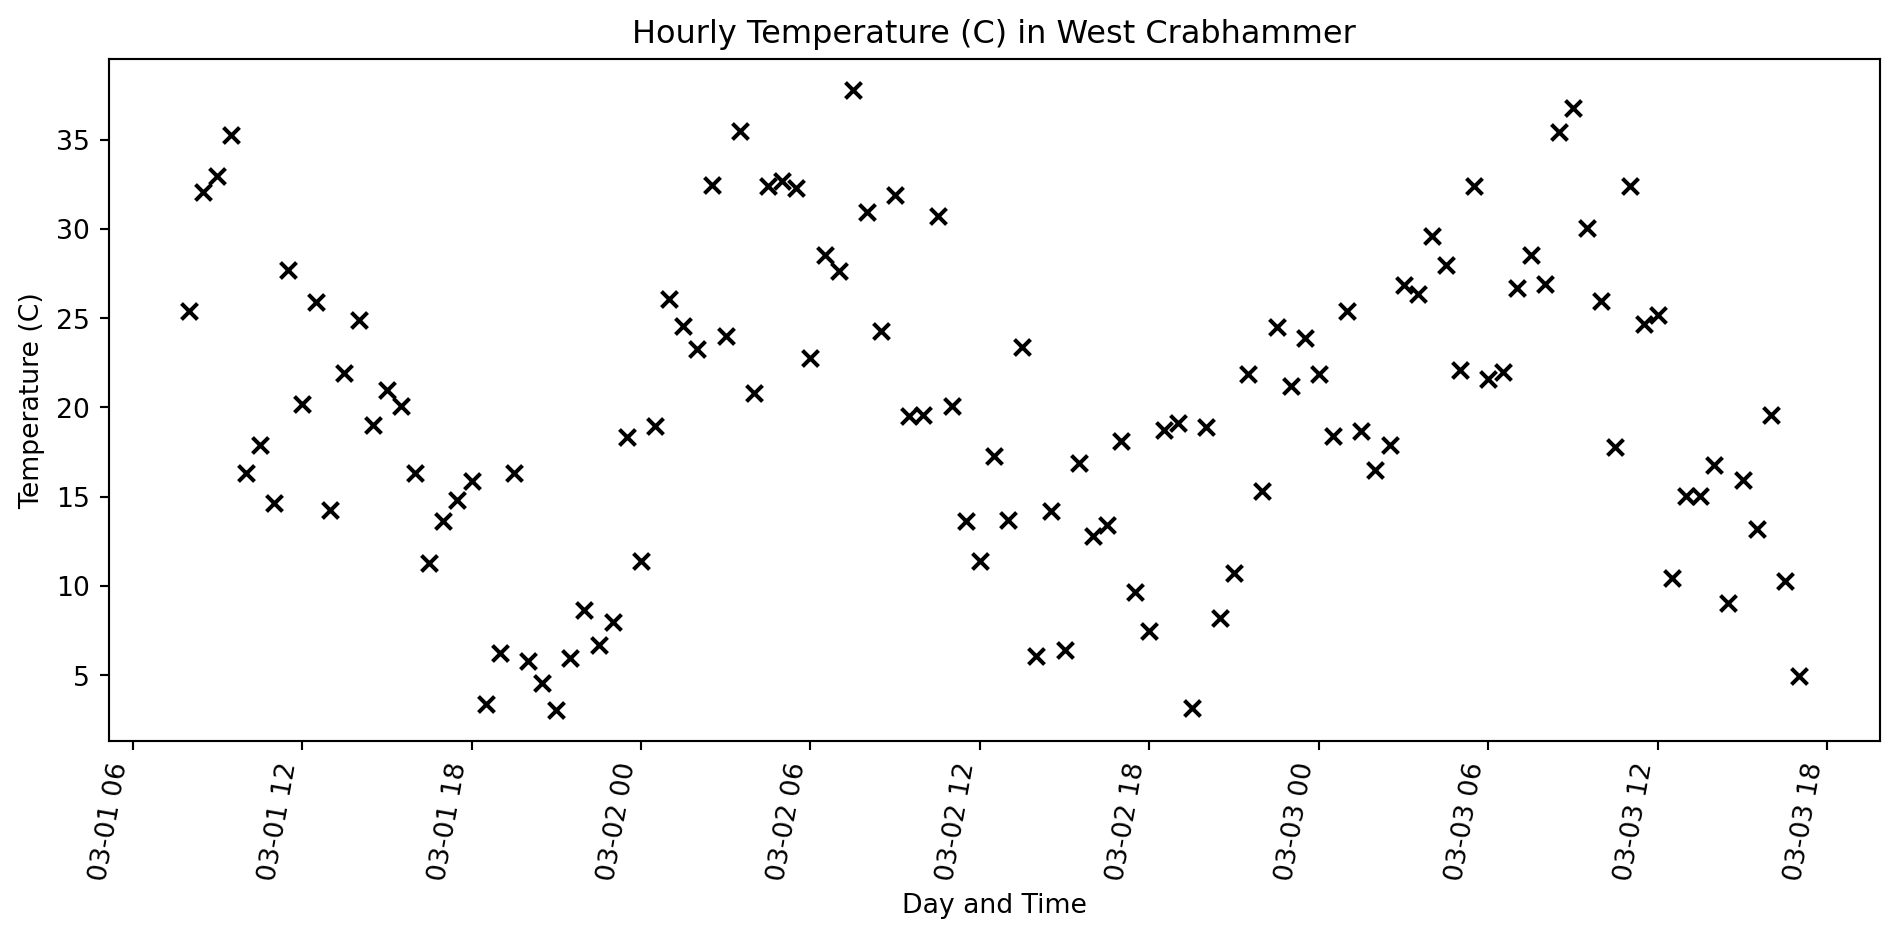
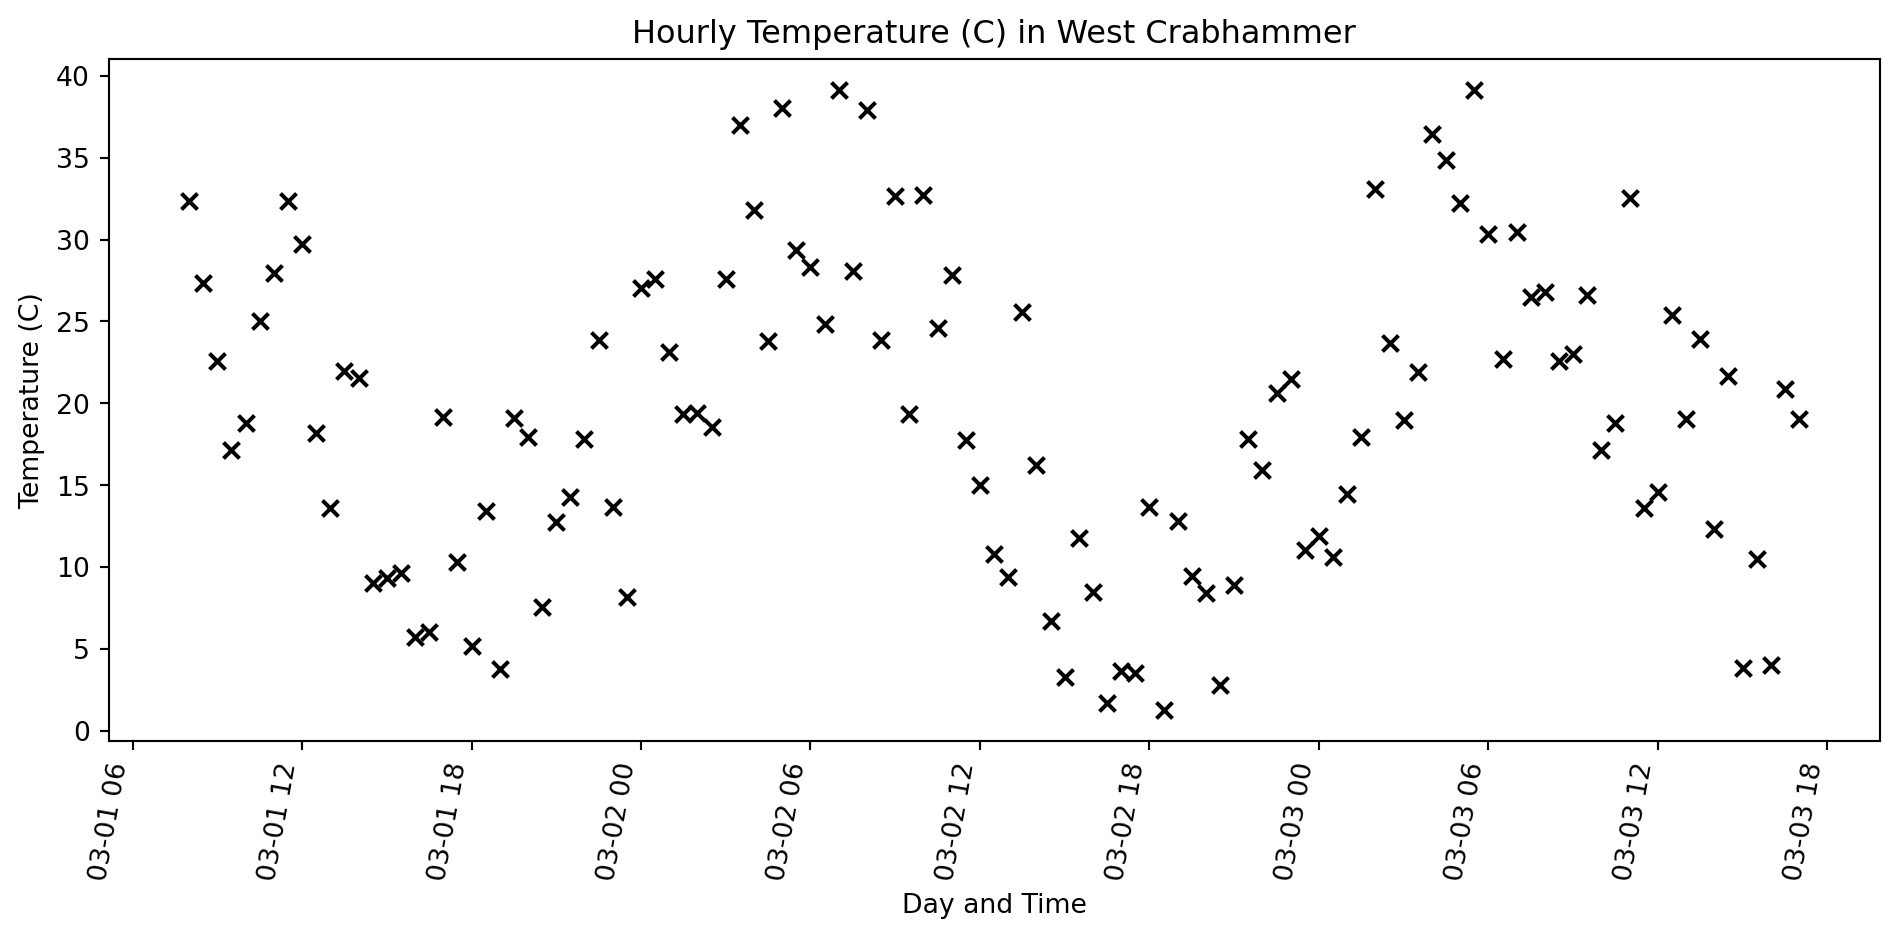
slideshow work

diff --git a/docs/python_geospatial_basics.html b/docs/python_geospatial_basics.html
@@ -264,7 +264,7 @@
 <section id="basic-numbers" class="slide level2">
 <h2>Basic Numbers</h2>
 <p>Floats and Ints don’t do anything all that surprising</p>
-<div id="2ce07f06" class="cell columns column-output-location" data-execution_count="1">
+<div id="17f8dfe8" class="cell columns column-output-location" data-execution_count="1">
 <div class="column">
 <div class="sourceCode cell-code" id="cb1"><pre class="sourceCode numberSource python number-lines code-with-copy"><code class="sourceCode python"><span id="cb1-1"><a></a>a <span class="op">=</span> <span class="dv">2</span> <span class="op">+</span> <span class="dv">2</span></span>
 <span id="cb1-2"><a></a>b <span class="op">=</span> <span class="fl">2.0</span> <span class="op">+</span> <span class="fl">2.0</span></span>
@@ -291,7 +291,7 @@ but 5 // 4 is 1</code></pre>
 <section id="sequences" class="slide level2">
 <h2>Sequences</h2>
 <p>Lists, tuples, and strings ae all sequences</p>
-<div id="aef609e2" class="cell columns column-output-location" data-execution_count="2">
+<div id="adc0f46d" class="cell columns column-output-location" data-execution_count="2">
 <div class="column">
 <div class="sourceCode cell-code" id="cb3"><pre class="sourceCode numberSource python number-lines code-with-copy"><code class="sourceCode python"><span id="cb3-1"><a></a><span class="co"># a list</span></span>
 <span id="cb3-2"><a></a>a_list <span class="op">=</span> [<span class="dv">1</span>, <span class="dv">2</span>, <span class="dv">3</span>, <span class="dv">4</span>, <span class="dv">5</span>, <span class="dv">6</span>, <span class="dv">7</span>, <span class="dv">8</span>, <span class="dv">9</span>]</span>
@@ -338,7 +338,7 @@ neushorn?</code></pre>
 </section>
 <section id="dictionaries" class="slide level2">
 <h2>Dictionaries</h2>
-<div id="592077d4" class="cell columns column-output-location" data-execution_count="3">
+<div id="9edf34d8" class="cell columns column-output-location" data-execution_count="3">
 <div class="column">
 <div class="sourceCode cell-code" id="cb5"><pre class="sourceCode numberSource python number-lines code-with-copy"><code class="sourceCode python"><span id="cb5-1"><a></a>pets <span class="op">=</span> {<span class="st">'honden'</span>: <span class="dv">26</span>, <span class="st">'katten'</span>: <span class="dv">100</span>}</span>
 <span id="cb5-2"><a></a></span>
@@ -357,7 +357,7 @@ neushorn?</code></pre>
 </section>
 <section id="iterating" class="slide level2">
 <h2>Iterating</h2>
-<div id="6d0d0f56" class="cell columns column-output-location" data-execution_count="4">
+<div id="daac9d5a" class="cell columns column-output-location" data-execution_count="4">
 <div class="column">
 <div class="sourceCode cell-code" id="cb7"><pre class="sourceCode numberSource python number-lines code-with-copy"><code class="sourceCode python"><span id="cb7-1"><a></a>a <span class="op">=</span> [<span class="dv">1</span>, <span class="dv">2</span>, <span class="dv">3</span>, <span class="dv">4</span>, <span class="dv">5</span>, <span class="dv">6</span>, <span class="dv">7</span>, <span class="dv">8</span>, <span class="dv">9</span>]</span>
 <span id="cb7-2"><a></a></span>
@@ -386,7 +386,7 @@ is the same as
 </section>
 <section id="pandas-dataframe" class="slide level2 scrollable">
 <h2>Pandas DataFrame</h2>
-<div id="f99e5995" class="cell columns column-output-location" data-execution_count="5">
+<div id="c4882a11" class="cell columns column-output-location" data-execution_count="5">
 <div class="column">
 <div class="sourceCode cell-code" id="cb9"><pre class="sourceCode numberSource python number-lines code-with-copy"><code class="sourceCode python"><span id="cb9-1"><a></a><span class="im">from</span> datetime <span class="im">import</span> datetime, timedelta</span>
 <span id="cb9-2"><a></a><span class="im">from</span> random <span class="im">import</span> uniform</span>
@@ -421,7 +421,7 @@ is the same as
 <span id="cb9-31"><a></a></span>
 <span id="cb9-32"><a></a>df.head()</span></code><button title="Copy to Clipboard" class="code-copy-button"><i class="bi"></i></button></pre></div>
 </div><div class="column">
-<div class="cell-output cell-output-display" data-execution_count="14">
+<div class="cell-output cell-output-display" data-execution_count="23">
 <div>
 <style scoped="">
     .dataframe tbody tr th:only-of-type {
@@ -449,27 +449,27 @@ is the same as
 <tr class="odd">
 <td data-quarto-table-cell-role="th">0</td>
 <td>2025-03-01 08:00:00</td>
-<td>37.851502</td>
+<td>37.893134</td>
 </tr>
 <tr class="even">
 <td data-quarto-table-cell-role="th">1</td>
 <td>2025-03-01 08:30:00</td>
-<td>23.373870</td>
+<td>32.242015</td>
 </tr>
 <tr class="odd">
 <td data-quarto-table-cell-role="th">2</td>
 <td>2025-03-01 09:00:00</td>
-<td>25.655305</td>
+<td>19.531587</td>
 </tr>
 <tr class="even">
 <td data-quarto-table-cell-role="th">3</td>
 <td>2025-03-01 09:30:00</td>
-<td>34.953959</td>
+<td>22.226543</td>
 </tr>
 <tr class="odd">
 <td data-quarto-table-cell-role="th">4</td>
 <td>2025-03-01 10:00:00</td>
-<td>16.736946</td>
+<td>31.218093</td>
 </tr>
 </tbody>
 </table>
@@ -480,7 +480,7 @@ is the same as
 </section>
 <section id="pandas-dataframe-cont." class="slide level2 scrollable">
 <h2>Pandas DataFrame Cont.</h2>
-<div id="3893d91d" class="cell columns column-output-location" data-execution_count="6">
+<div id="64b6c287" class="cell columns column-output-location" data-execution_count="6">
 <div class="column">
 <div class="sourceCode cell-code" id="cb10"><pre class="sourceCode numberSource python number-lines code-with-copy"><code class="sourceCode python"><span id="cb10-1"><a></a><span class="im">from</span> datetime <span class="im">import</span> datetime, timedelta</span>
 <span id="cb10-2"><a></a><span class="im">from</span> random <span class="im">import</span> uniform</span>
@@ -580,7 +580,7 @@ Figure&nbsp;1: A line plot on a polar axis
 </section></section>
 <section>
 <section id="exploring-geopandas" class="title-slide slide level1 center" data-background-image="images/pandas.png">
-<h1>Exploring Geopandas {</h1>
+<h1>Exploring Geopandas</h1>
 
 </section>
 <section id="geopandas" class="slide level2">
@@ -615,7 +615,7 @@ Figure&nbsp;1: A line plot on a polar axis
 </section>
 <section id="polygon" class="slide level2">
 <h2>Polygon</h2>
-<div id="58ad221a" class="cell columns column-output-location" data-execution_count="8">
+<div id="9e72d872" class="cell columns column-output-location" data-execution_count="8">
 <div class="column">
 <div class="sourceCode cell-code" id="cb12"><pre class="sourceCode numberSource python number-lines code-with-copy"><code class="sourceCode python"><span id="cb12-1"><a></a><span class="im">from</span> shapely <span class="im">import</span> Polygon</span>
 <span id="cb12-2"><a></a></span>
@@ -630,7 +630,7 @@ Figure&nbsp;1: A line plot on a polar axis
 <div class="cell-output cell-output-stdout">
 <pre><code>True</code></pre>
 </div>
-<div class="cell-output cell-output-display" data-execution_count="17">
+<div class="cell-output cell-output-display" data-execution_count="26">
 <div>
 <figure>
 <p><img data-src="python_geospatial_basics_files/figure-revealjs/cell-9-output-2.svg"></p>
@@ -642,7 +642,7 @@ Figure&nbsp;1: A line plot on a polar axis
 <section id="reading-files" class="slide level2">
 <h2>Reading Files</h2>
 <p>Here we will read a geogson using the <code>read_file</code> method.</p>
-<div id="d12cd56b" class="cell columns column-output-location" data-execution_count="9">
+<div id="d68a413a" class="cell columns column-output-location" data-execution_count="9">
 <div class="column">
 <div class="sourceCode cell-code" id="cb14"><pre class="sourceCode numberSource python number-lines code-with-copy"><code class="sourceCode python"><span id="cb14-1"><a></a><span class="im">from</span> pathlib <span class="im">import</span> Path</span>
 <span id="cb14-2"><a></a><span class="im">import</span> geopandas <span class="im">as</span> gpd</span>
@@ -656,7 +656,7 @@ Figure&nbsp;1: A line plot on a polar axis
 <span id="cb14-10"><a></a></span>
 <span id="cb14-11"><a></a>gdf</span></code><button title="Copy to Clipboard" class="code-copy-button"><i class="bi"></i></button></pre></div>
 </div><div class="column">
-<div class="cell-output cell-output-display" data-execution_count="18">
+<div class="cell-output cell-output-display" data-execution_count="27">
 <div>
 <style scoped="">
     .dataframe tbody tr th:only-of-type {
